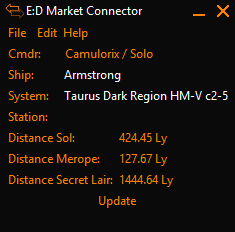
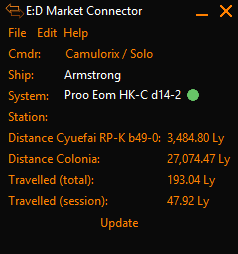
Update readme

diff --git a/README.md b/README.md
@@ -19,5 +19,10 @@ You will need to re-start EDMC for it to notice the new plugin.
 
 You can add up to three systems or points in the settings. Non valid entries (e.g. x, y or z is empty) won't be stored when you close the settings.
 It is possible to clear an entire row by pressing the _Clear_ button. The _EDSM_ button fills in the coordinates for a system providing the system name can be found on EDSM.
-
 Once at least one system/point has been added in the settings, the main window shows the distance from your current location to those systems/points in light years.
+
+Further more it is possible to display the travelled distance. The plugin uses the distance provided by the journal files for the calculation. 
+The _total distance_ is stored and is available even when the program is closed. Uncheck the option if you don't want to your jumps added to it. This also causes it to be hidden from the main window. To reset it, press the button underneath it.
+The travelled distance for the current session has two available options:
+* Calculate it for the current EDSM session: Add distances as long as EDSM runs
+* Calculate it for the current Elite Session: Add distances as long as you don't load into Elite or close EDSM
